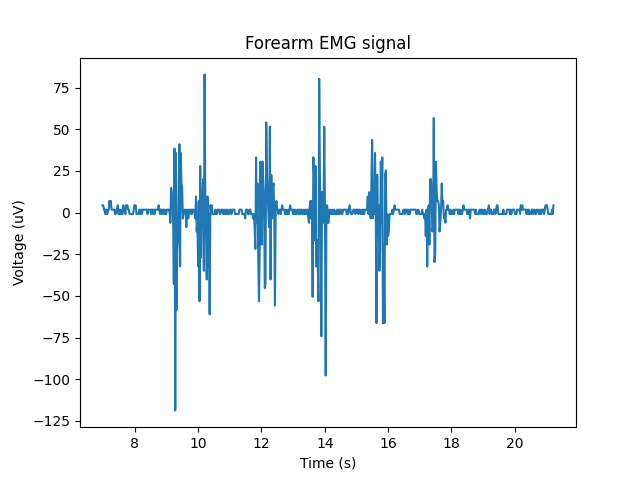
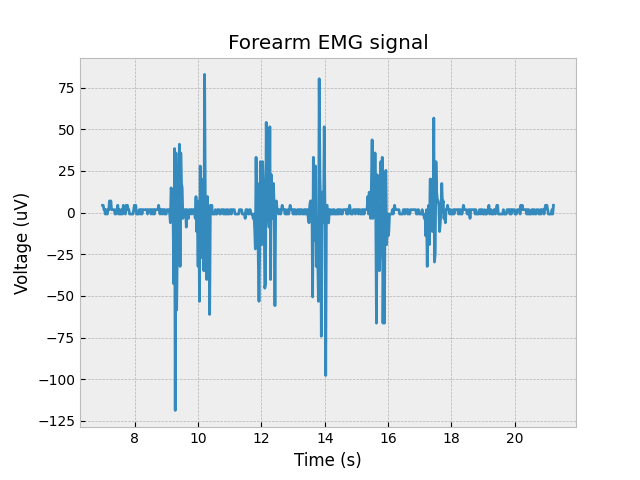
Figures

diff --git a/Data/WirelessEMG.py b/Data/WirelessEMG.py
@@ -2,10 +2,8 @@ import pandas as pd
 import matplotlib.pyplot as plt
 import numpy as np
 from scipy.signal import kaiserord, lfilter, firwin, freqz
-#plt.style.use('seaborn-white')
+plt.style.use('bmh')
 
-def moving_average(x, w):
-    return np.convolve(x, np.ones(w), 'valid') / w
 
 #Amplifier gains
 G1 = 50.4
@@ -23,11 +21,7 @@ V = pd.read_excel('Wireless EMG data 1.xlsx',usecols="A")/G_total*1e6
 t = pd.read_excel('Wireless EMG data 1.xlsx',usecols="B")/1000
 V = V-np.mean(V)
 Vrect = abs(V)
-#Vrect2 = np.array(Vrect)
-#print(Vrect)
-#Vrect2 = Vrect[:, 0]
-#Vrect.flatten(1)
-#Vsmooth = moving_average(Vrect, 10)
+
 
 #Plot raw EMG
 plt.xlabel('Time (s)')
@@ -40,16 +34,9 @@ plt.show()
 #Plot rectified EMG
 plt.xlabel('Time (s)')
 plt.ylabel('Voltage (uV)')
-plt.plot(t, Vrect)
+plt.plot(t, Vrect, 'm')
 plt.title('Forearm EMG signal')
 plt.legend(loc='upper right', frameon=False)
 plt.show()
 
-#Plot smoothed EMG
-plt.xlabel('Time (s)')
-plt.ylabel('Voltage (uV)')
-plt.plot(t, Vsmooth)
-plt.title('Forearm EMG signal')
-plt.legend(loc='upper right', frameon=False)
-plt.show()
 
